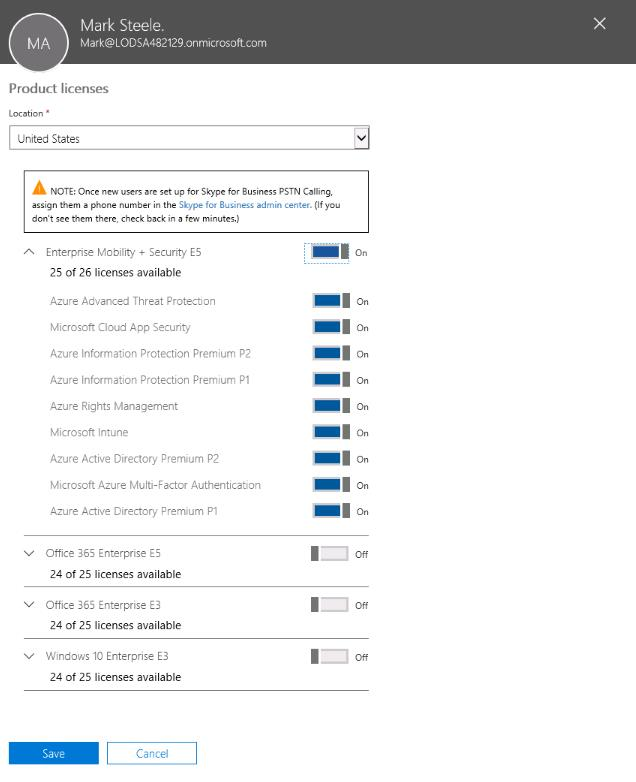
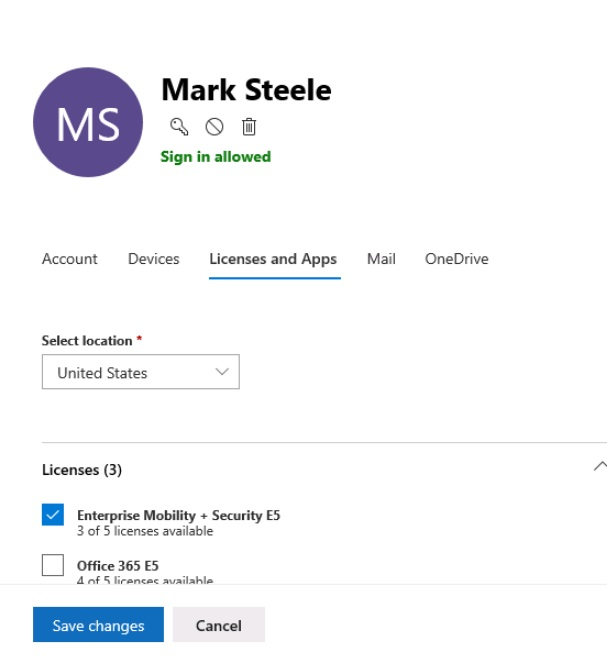
Minor changes of steps and screenshots
Make minor changes for lab steps and screenshots due to the changes of Office Admin portal.

diff --git a/instructions.md b/instructions.md
@@ -184,7 +184,7 @@ and click **Add**.
 1. [] Click OK in the UPN Suffixes tab and close Active Directory Domains and Trusts
 1. [] From Server Manager > Tools open **Active Directory Users and Computers**
 !IMAGE[Screenshot](Screens/wypuld2x.jpg)
-1. [] In Active Directory Users and Computers, expand contoso.com and click on the *Users* container
+1. [] In Active Directory Users and Computers, expand contoso.com and click on the *Workshop Accounts* OU
 1. [] Select the user **Mark Steele**
 1. [] Right-click Mark Steele and click **Properties**
 1. [] Click the Account tab and change the UPN suffix of the user to the Microsoft Office 365 domain name <Domain Name>.onmicrosoft.com that you added in Active Directory Domains and Trusts
@@ -243,11 +243,11 @@ enter +++Contoso\administrator+++ and +++Pa$$w0rd+++ and click **OK**, then clic
 1. [] Log on to @lab.VirtualMachine(NYCCL1).SelectLink using the following credentials:   
 	   	- User name: Contoso\\Administrator  
 		- Password: +++Pa$$w0rd+++
-1. [] Wait approx. 5 minutes then open +++https://portal.office.com+++ and navigate to Admin > Active Users and confirm Mark Steele has been synchronized
+1. [] Wait approx. 5 minutes then open +++https://portal.office.com+++ and navigate to Admin > Users > Active Users and confirm Mark Steele has been synchronized
 !IMAGE[skvwa9d8.png](skvwa9d8.png)
-1. [] Select Mark Steele and click **Edit** under Product licenses, then select a Location and assign an *Enterprise Mobility + Security E5* license
+1. [] Select Mark Steele, click "License and Apps" tab. Select location as "United States", select and enable "Enterprise Mobility + Security E5".
 !IMAGE[zmlul7np.jpg](zmlul7np.jpg)
-1. [] Click **Save**, then **Close** twice
+1. [] Click "X" at top right corner to close the window.
 
 Congratulations! 
 You have successfully:
